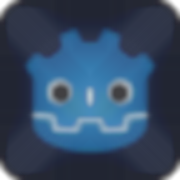
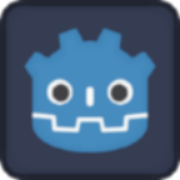
add new wersion

diff --git a/index.html b/index.html
@@ -38,7 +38,7 @@ body {
 }
 
 #status {
-	background-color: #242424;
+	background-color: #ffffff;
 	display: flex;
 	flex-direction: column;
 	justify-content: center;
@@ -105,14 +105,14 @@ body {
 		</noscript>
 
 		<div id="status">
-			<img id="status-splash" class="show-image--true fullsize--true use-filter--true" src="index.png" alt="">
+			<img id="status-splash" class="show-image--true fullsize--false use-filter--true" src="index.png" alt="">
 			<progress id="status-progress"></progress>
 			<div id="status-notice"></div>
 		</div>
 
 		<script src="index.js"></script>
 		<script>
-const GODOT_CONFIG = {"args":[],"canvasResizePolicy":2,"emscriptenPoolSize":8,"ensureCrossOriginIsolationHeaders":true,"executable":"index","experimentalVK":false,"fileSizes":{"index.pck":369159320,"index.wasm":1588912},"focusCanvas":true,"gdextensionLibs":[],"godotPoolSize":4,"serviceWorker":"index.service.worker.js"};
+const GODOT_CONFIG = {"args":[],"canvasResizePolicy":2,"emscriptenPoolSize":8,"ensureCrossOriginIsolationHeaders":true,"executable":"index","experimentalVK":false,"fileSizes":{"index.pck":369261348,"index.wasm":1588912},"focusCanvas":true,"gdextensionLibs":[],"godotPoolSize":4,"serviceWorker":"index.service.worker.js"};
 const GODOT_THREADS_ENABLED = false;
 const engine = new Engine(GODOT_CONFIG);
 

diff --git a/index.service.worker.js b/index.service.worker.js
@@ -4,7 +4,7 @@
 // Incrementing CACHE_VERSION will kick off the install event and force
 // previously cached resources to be updated from the network.
 /** @type {string} */
-const CACHE_VERSION = '1765990469|5328940064';
+const CACHE_VERSION = '1770062456|13038835419';
 /** @type {string} */
 const CACHE_PREFIX = 'PromykPSX-sw-cache-';
 const CACHE_NAME = CACHE_PREFIX + CACHE_VERSION;
